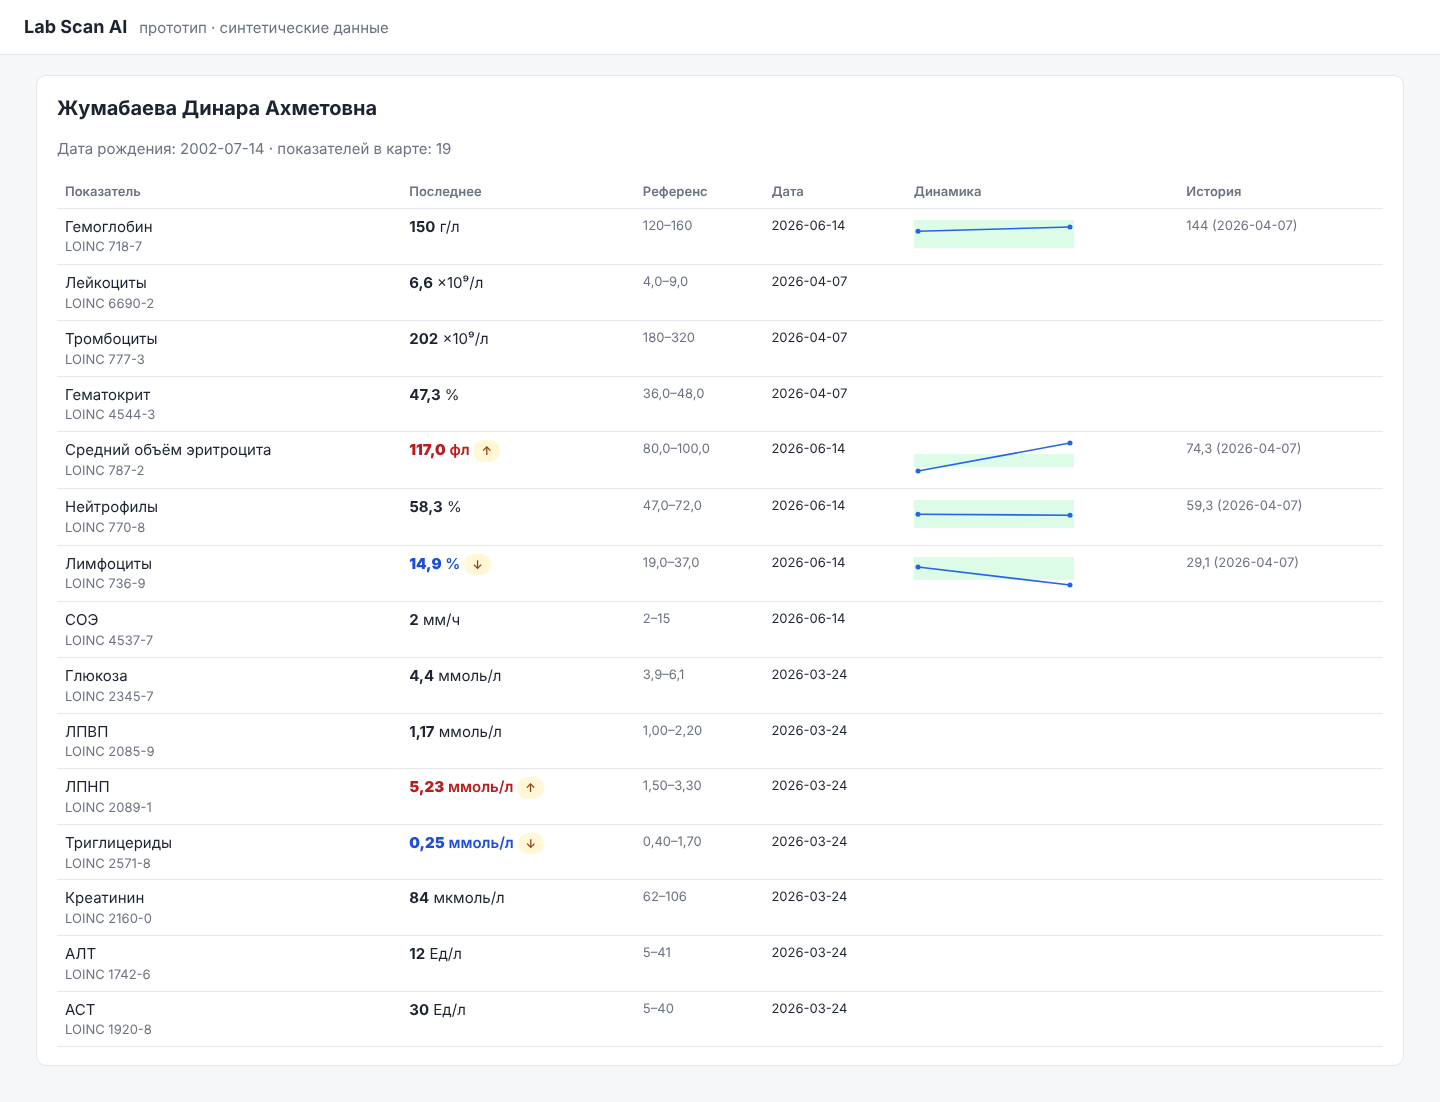
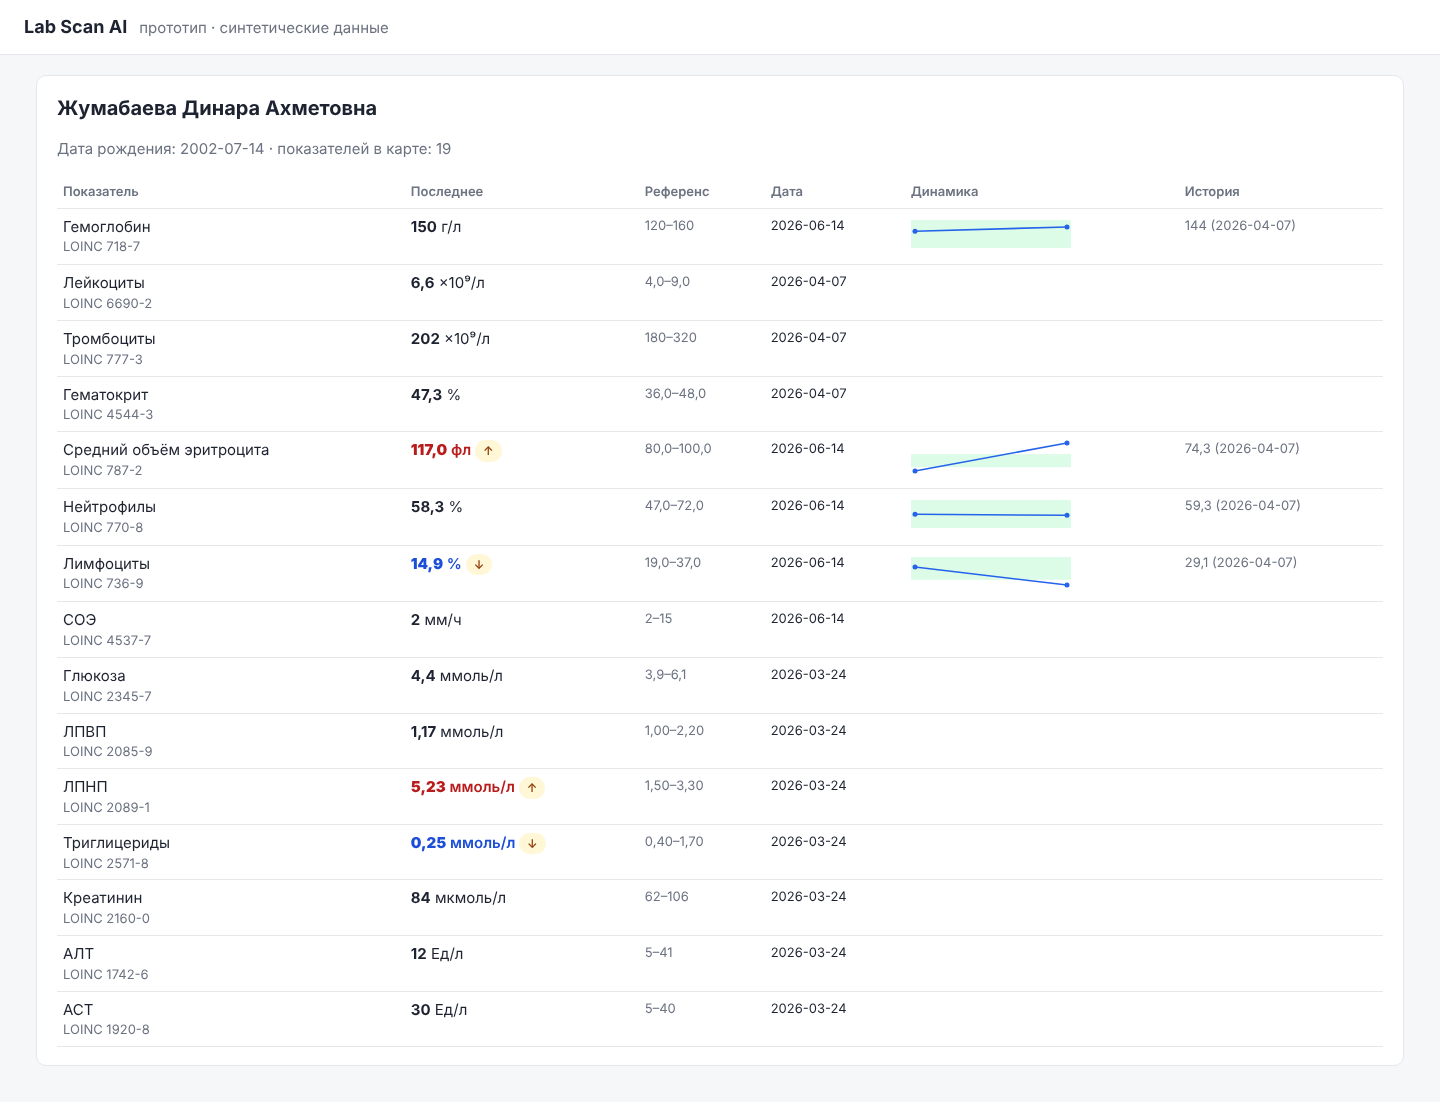
Починить CI и вёрстку экрана проверки
pip install падал: setuptools находил несколько пакетов верхнего уровня,
теперь пакеты и шаблоны перечислены явно. Текст «на бланке» перенесён
под название показателя, чтобы таблица помещалась в карточку.

diff --git a/labscan/web/templates/review.html b/labscan/web/templates/review.html
@@ -16,7 +16,7 @@
       <label>Дата взятия<input name="collected_at" value="{{ n.collected_at or '' }}" placeholder="ГГГГ-ММ-ДД" {{ 'disabled' if locked }}></label>
     </div>
     <table class="obs">
-      <thead><tr><th></th><th>Показатель</th><th>Значение</th><th>Ед.</th><th>Референс</th><th>На бланке</th></tr></thead>
+      <thead><tr><th></th><th>Показатель</th><th>Значение</th><th>Ед.</th><th>Референс</th></tr></thead>
       <tbody>
       {% for o in n.observations %}
       <tr class="{{ 'need' if o.status == 'review' }}">
@@ -25,21 +25,21 @@
               <option value="">— выбрать —</option>
               {% for a in analytes %}<option value="{{ a.code }}" {{ 'selected' if a.code == o.code }}>{{ a.name_ru }}</option>{% endfor %}
             </select>
+            <div class="raw small" title="как напечатано на бланке">на бланке: {{ o.raw.name }} · {{ o.raw.value }} {{ o.raw.unit or '' }}</div>
             {% for issue in o.issues %}<div class="issue">{{ issue }}</div>{% endfor %}</td>
         <td><input class="num {{ 'flag-' ~ o.flag if o.flag }}" name="value_{{ loop.index0 }}" value="{{ o.value|fmt(o.code) }}" {{ 'disabled' if locked }}></td>
-        <td class="muted">{{ o.unit|unit_ru }}</td>
+        <td class="muted unit">{{ o.unit|unit_ru }}</td>
         <td class="muted small">{% if o.ref_low is not none or o.ref_high is not none %}{{ o.ref_low|fmt(o.code) }}–{{ o.ref_high|fmt(o.code) }}{% endif %}</td>
-        <td class="raw small">{{ o.raw.name }}: {{ o.raw.value }} {{ o.raw.unit or '' }}</td>
       </tr>
       {% endfor %}
       {% if not locked %}
       {% for k in extra %}
       <tr class="extra">
         <td class="muted small">+</td>
-        <td><select name="code_x{{ k }}"><option value="">— добавить пропущенный показатель —</option>
+        <td><select name="code_x{{ k }}"><option value="">+ пропущенная строка</option>
               {% for a in analytes %}<option value="{{ a.code }}">{{ a.name_ru }} ({{ a.unit|unit_ru }})</option>{% endfor %}</select></td>
-        <td><input class="num" name="value_x{{ k }}" placeholder="значение"></td>
-        <td colspan="3" class="muted small">{% if loop.first %}если на скане есть строка, которой нет в таблице{% endif %}</td>
+        <td><input class="num" name="value_x{{ k }}" placeholder="число"></td>
+        <td colspan="2" class="muted small">{% if loop.first %}если на скане есть строка, которой нет в таблице{% endif %}</td>
       </tr>
       {% endfor %}
       {% endif %}

diff --git a/labscan/web/static/style.css b/labscan/web/static/style.css
@@ -35,6 +35,10 @@ tr.need { background:var(--warn-bg); }
 .spark .band { fill:var(--ok-bg); }
 @media (max-width: 900px) { .review, .grid2, .meta { grid-template-columns:1fr; } .scan { position:static; max-height:none; } }
 .fields { overflow-x:auto; }
-.obs select { max-width:230px; }
-.raw { word-break:break-word; max-width:170px; }
+.obs select { width:100%; max-width:240px; }
+.obs td, .obs th { padding:7px 6px; }
+input.num { width:78px; }
+.obs td.unit { white-space:nowrap; }
+.raw { word-break:break-word; margin-top:4px; }
 tr.extra td { background:#fafafa; }
+@media (max-width: 1400px) { .review { grid-template-columns:1fr; } .scan { position:static; max-height:70vh; } }
